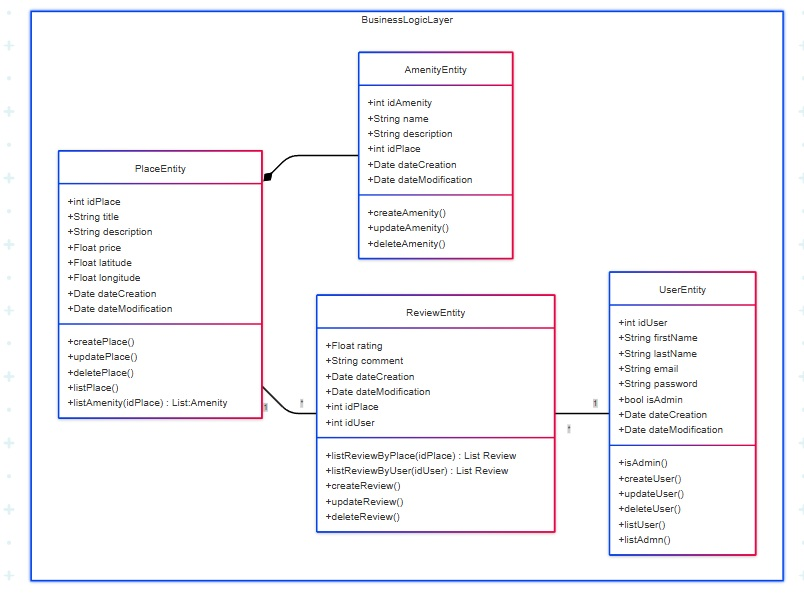
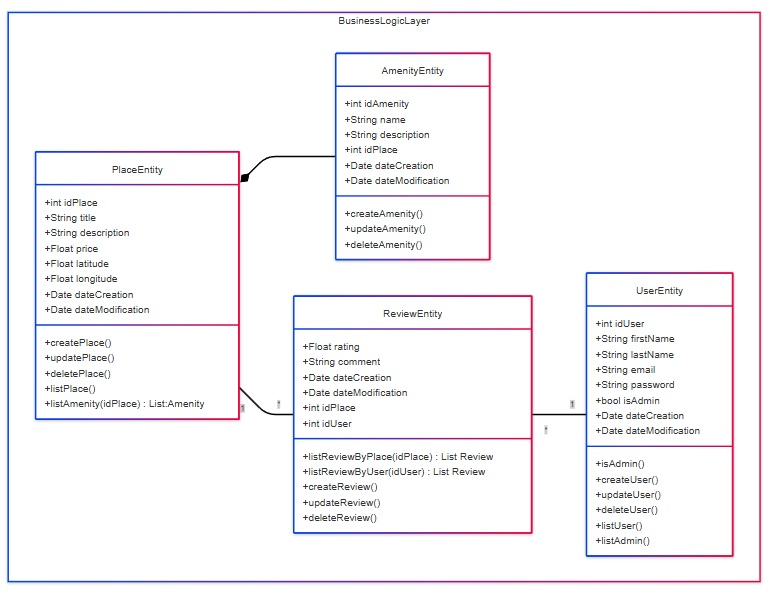
remove typo listadmin

Changed region(s): [[0.0, 0.0, 0.9834, 1.0]]

diff --git a/part1/README.md b/part1/README.md
@@ -48,7 +48,7 @@ direction TB
 	    +updateUser()
 	    +deleteUser()
 		+listUser()
-		+listAdmn()
+		+listAdmin()
     }
 
     class PlaceEntity {
